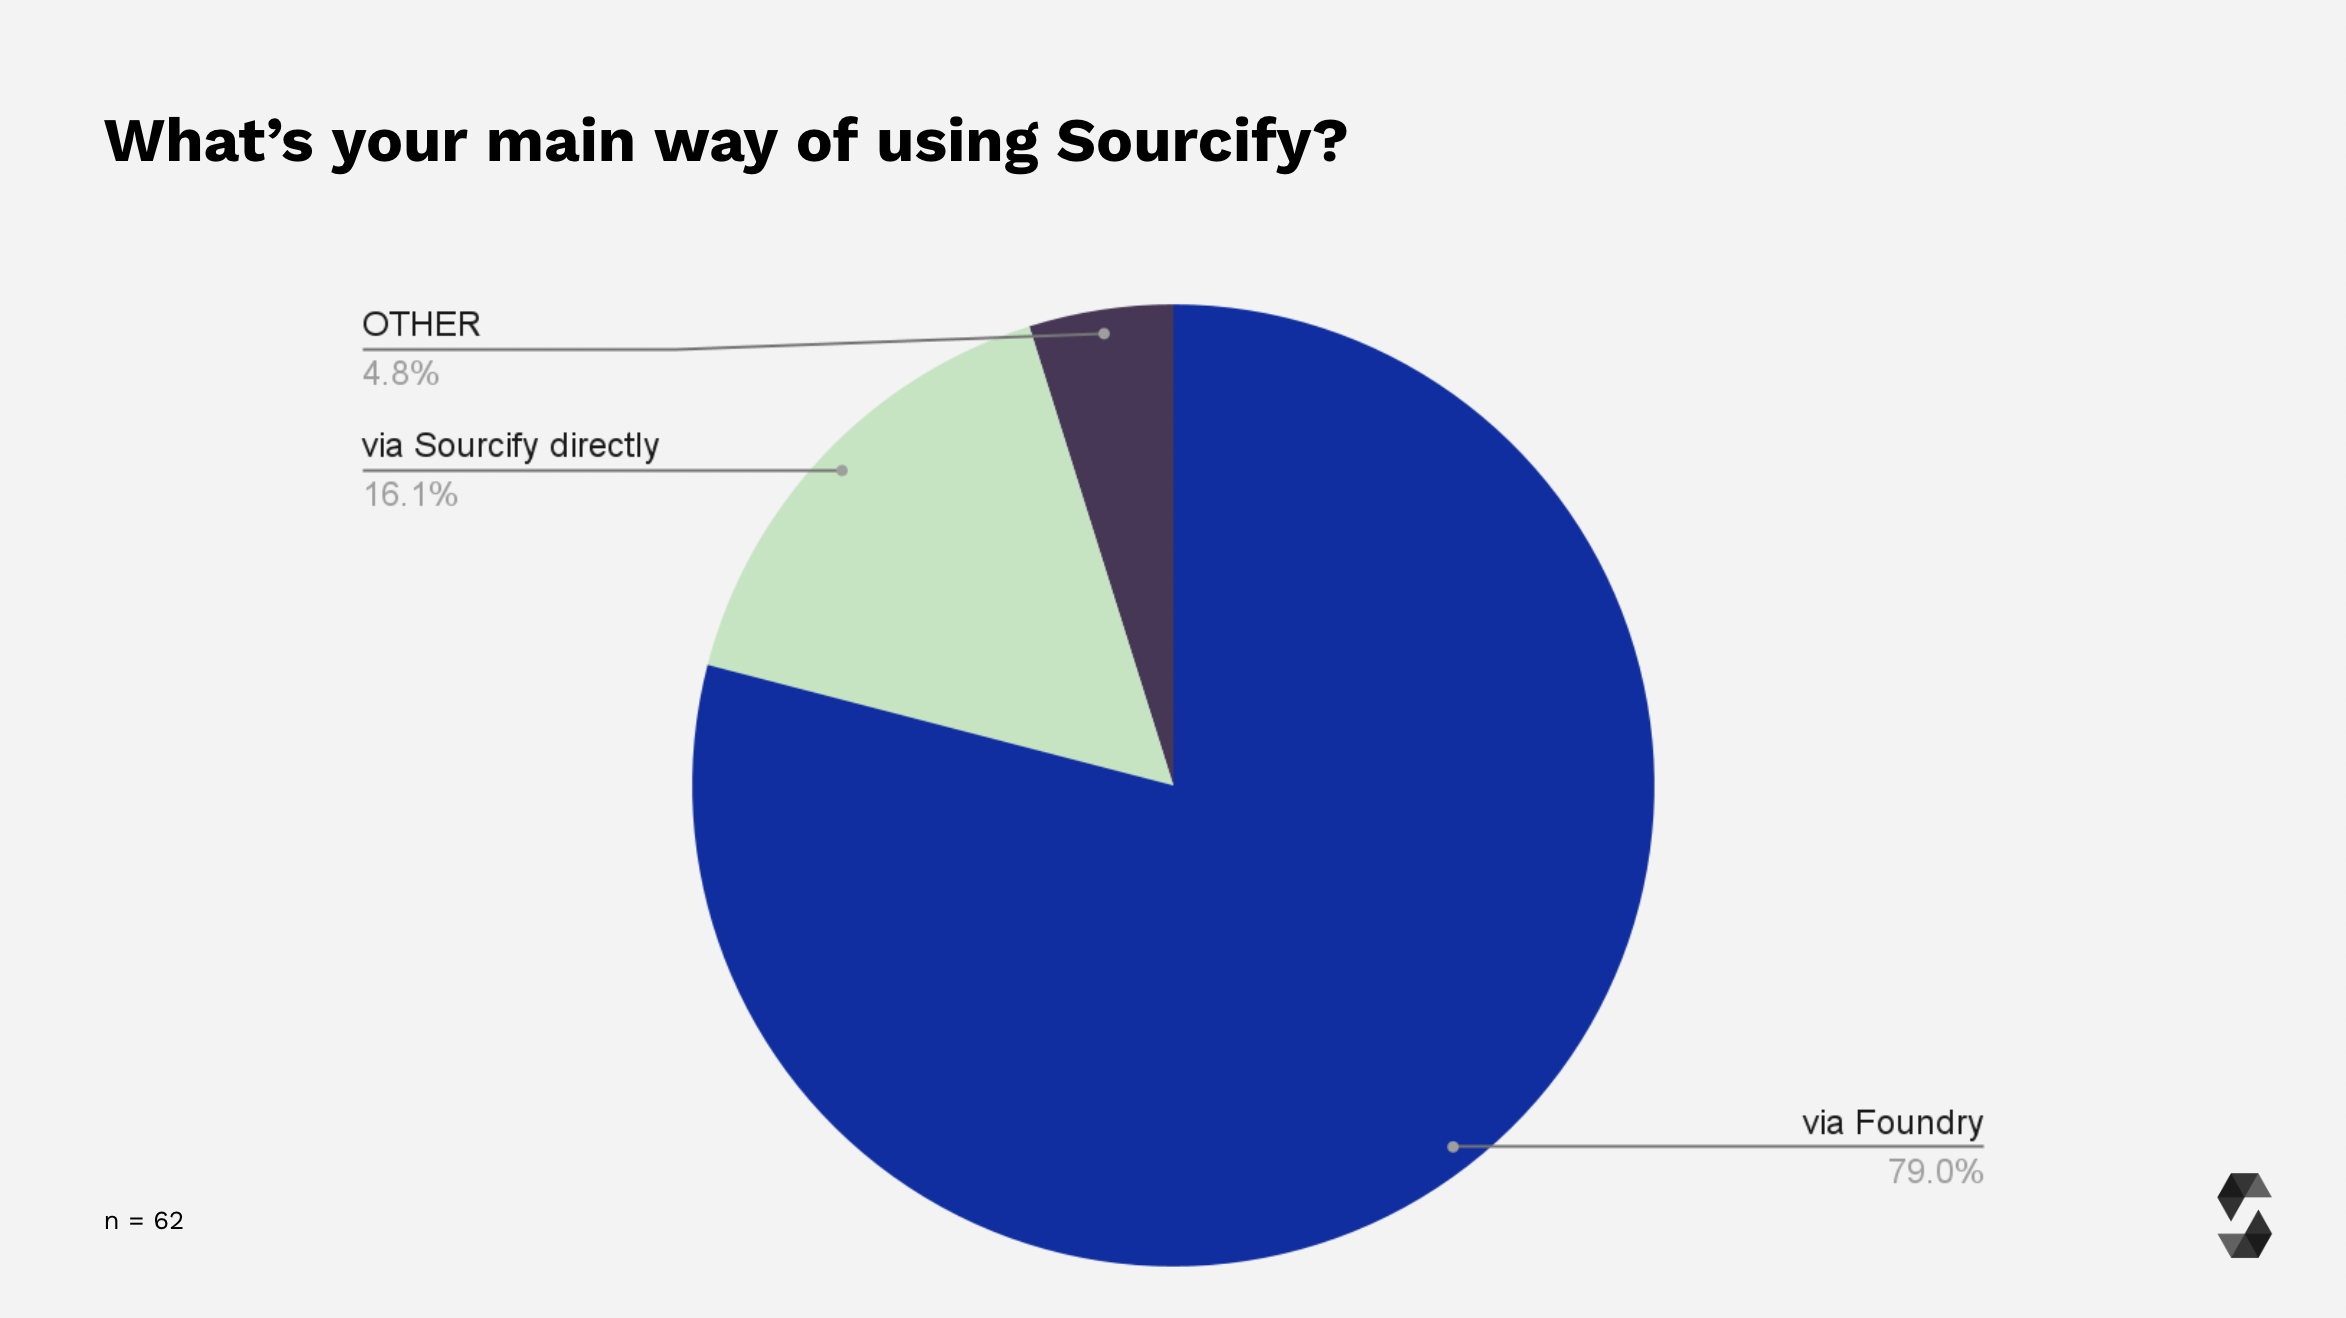
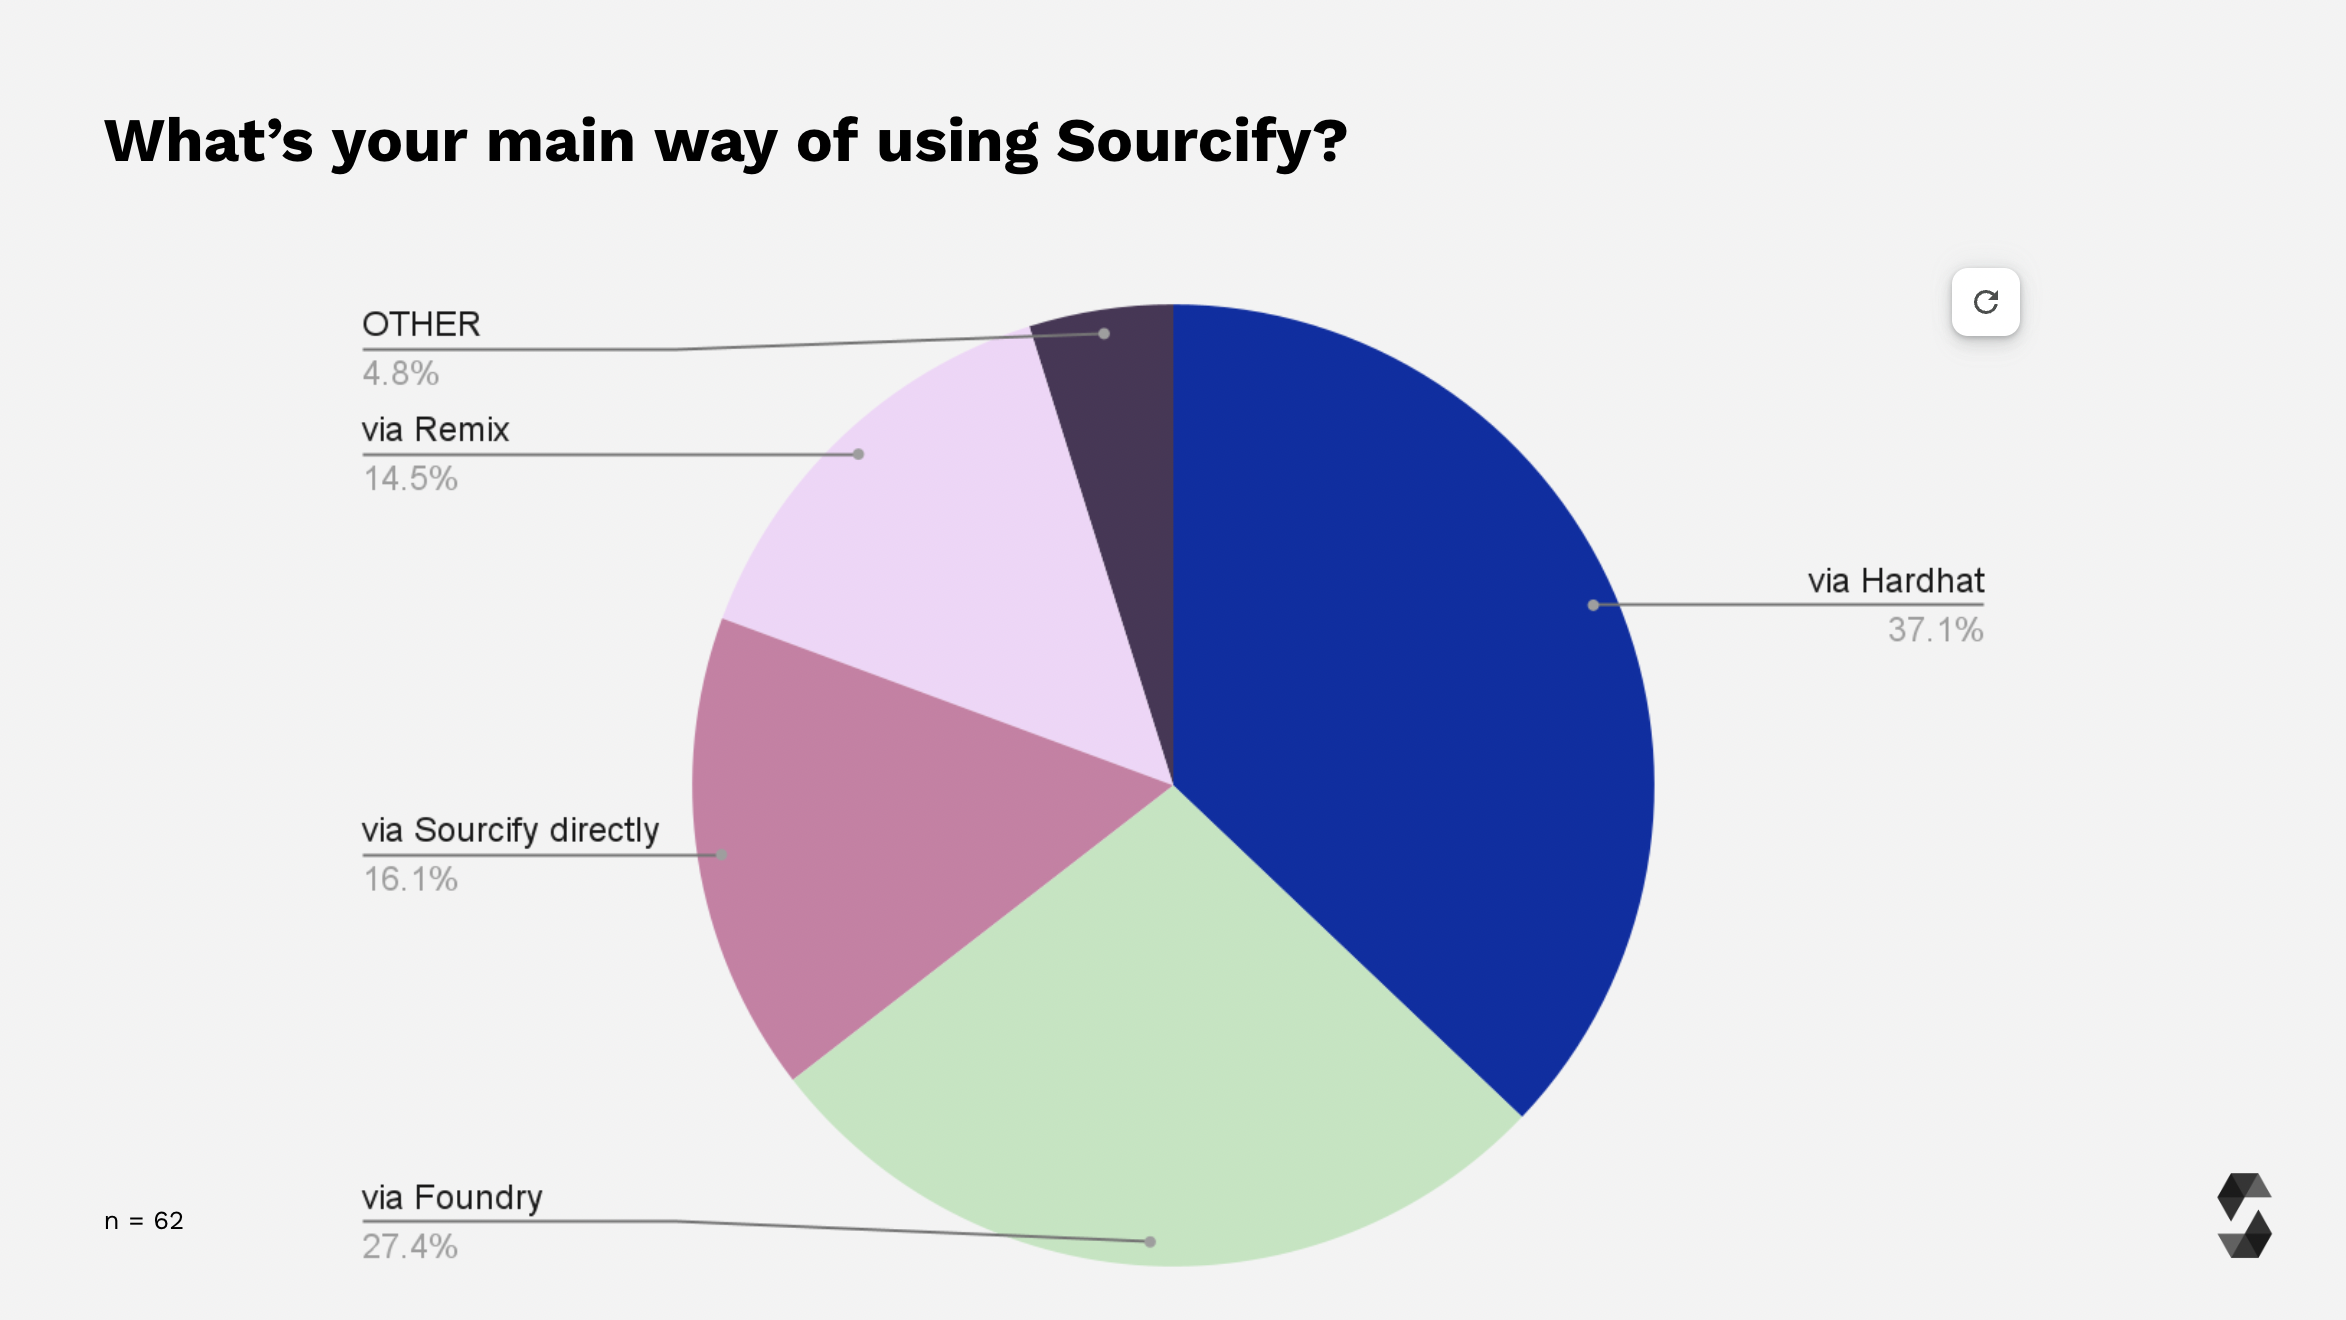
Delete public/img/2024/survey/Slide44.png (#99)
* Delete public/img/2024/survey/Slide44.png

* Add files via upload

* Update 2024-04-03-solidity-developer-survey-2023-results.md

diff --git a/src/posts/2024-04-03-solidity-developer-survey-2023-results.md b/src/posts/2024-04-03-solidity-developer-survey-2023-results.md
@@ -7,7 +7,7 @@ author: Vishwa Mehta
 category: Announcements
 ---
 
-EDIT REMARK: We noticed a minor error in the graphical representation of popular Ethereum-specific IDEs. The results in this blog post and corresponding graphical data in the slide deck has been updated to reflect this rectification that represents the survey data accurately.
+EDIT REMARK: We noticed a minor error in the graphical representation of [1] popular Ethereum-specific IDEs and [2] Sourcify usage. The results in this blog post and corresponding graphical data in the slide deck has been updated to reflect this rectification that represents the survey data accurately.
 
 We are thrilled to share with you the [Solidity Developer Survey 2023](https://blog.soliditylang.org/2023/12/08/solidity-developer-survey-2023-announcement/) results! In this blog post, we will be going over key insights and detailed analysis of the various sections of the survey.
 
@@ -335,7 +335,7 @@ When asked about Sourcify usage, 14.2% of all respondents use Sourcify for smart
 
 ![Sourcify](/img/2024/survey/Slide43.png)
 
-A majority of 79% users use Sourcify via Foundry and 16.1% use it via Sourcify directly. If you want to learn more about Sourcify, visit [sourcify.dev](https://sourcify.dev/).
+A majority of 37.1% users use Sourcify via Hardhat, followed by via Foundry (27.4%), via Sourcify directly (16.1%), and via Remix (14.5%). If you want to learn more about Sourcify, visit [sourcify.dev](https://sourcify.dev/).
 
 ![May way of using Sourcify](/img/2024/survey/Slide44.png)
 
